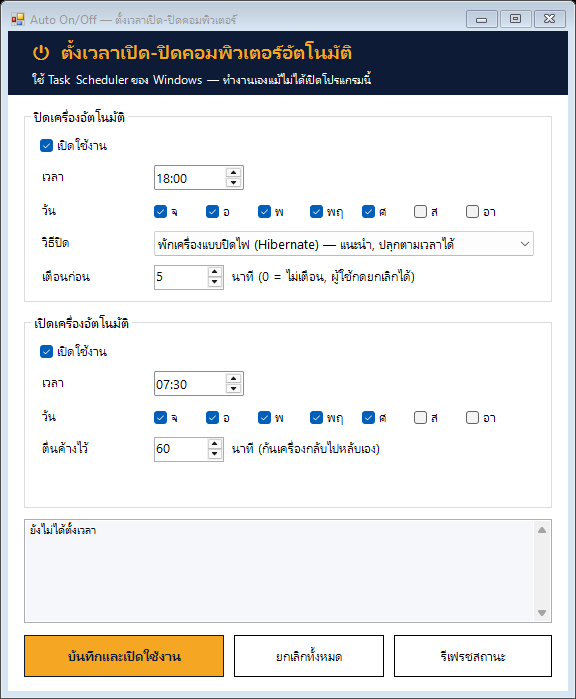
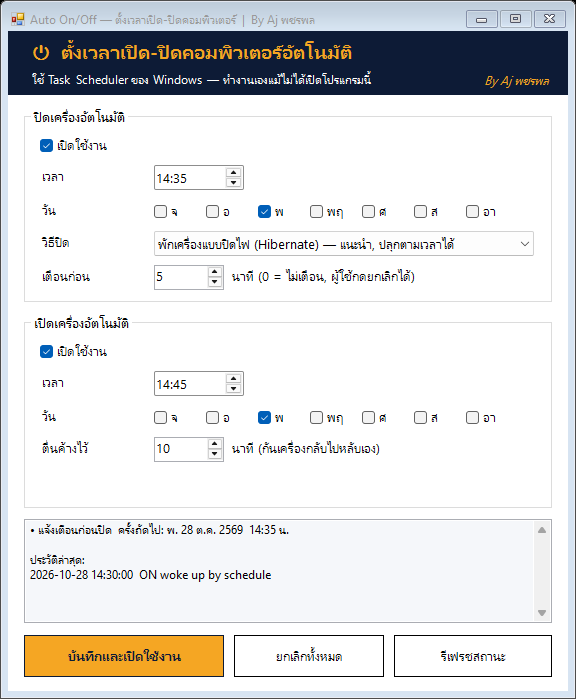
Add author credit and hidden-task note to status
Show "By Aj พชรพล" in the window title, header and README. The status
box now notes that SYSTEM tasks are hidden when not run as administrator.

diff --git a/README.md b/README.md
@@ -3,6 +3,8 @@
 โปรแกรมเล็กๆ สำหรับ Windows 10/11 ตั้งเวลา **ปิดเครื่อง** และ **เปิดเครื่อง** อัตโนมัติตามวัน/เวลาที่กำหนด
 ใช้ Task Scheduler ที่มากับ Windows — ไม่ต้องติดตั้งโปรแกรมเพิ่ม, ไม่ต้องเปิดโปรแกรมค้างไว้
 
+**ผู้พัฒนา:** Aj พชรพล
+
 ![หน้าต่างตั้งค่า](docs/screenshot.png)
 
 ## ความสามารถ
